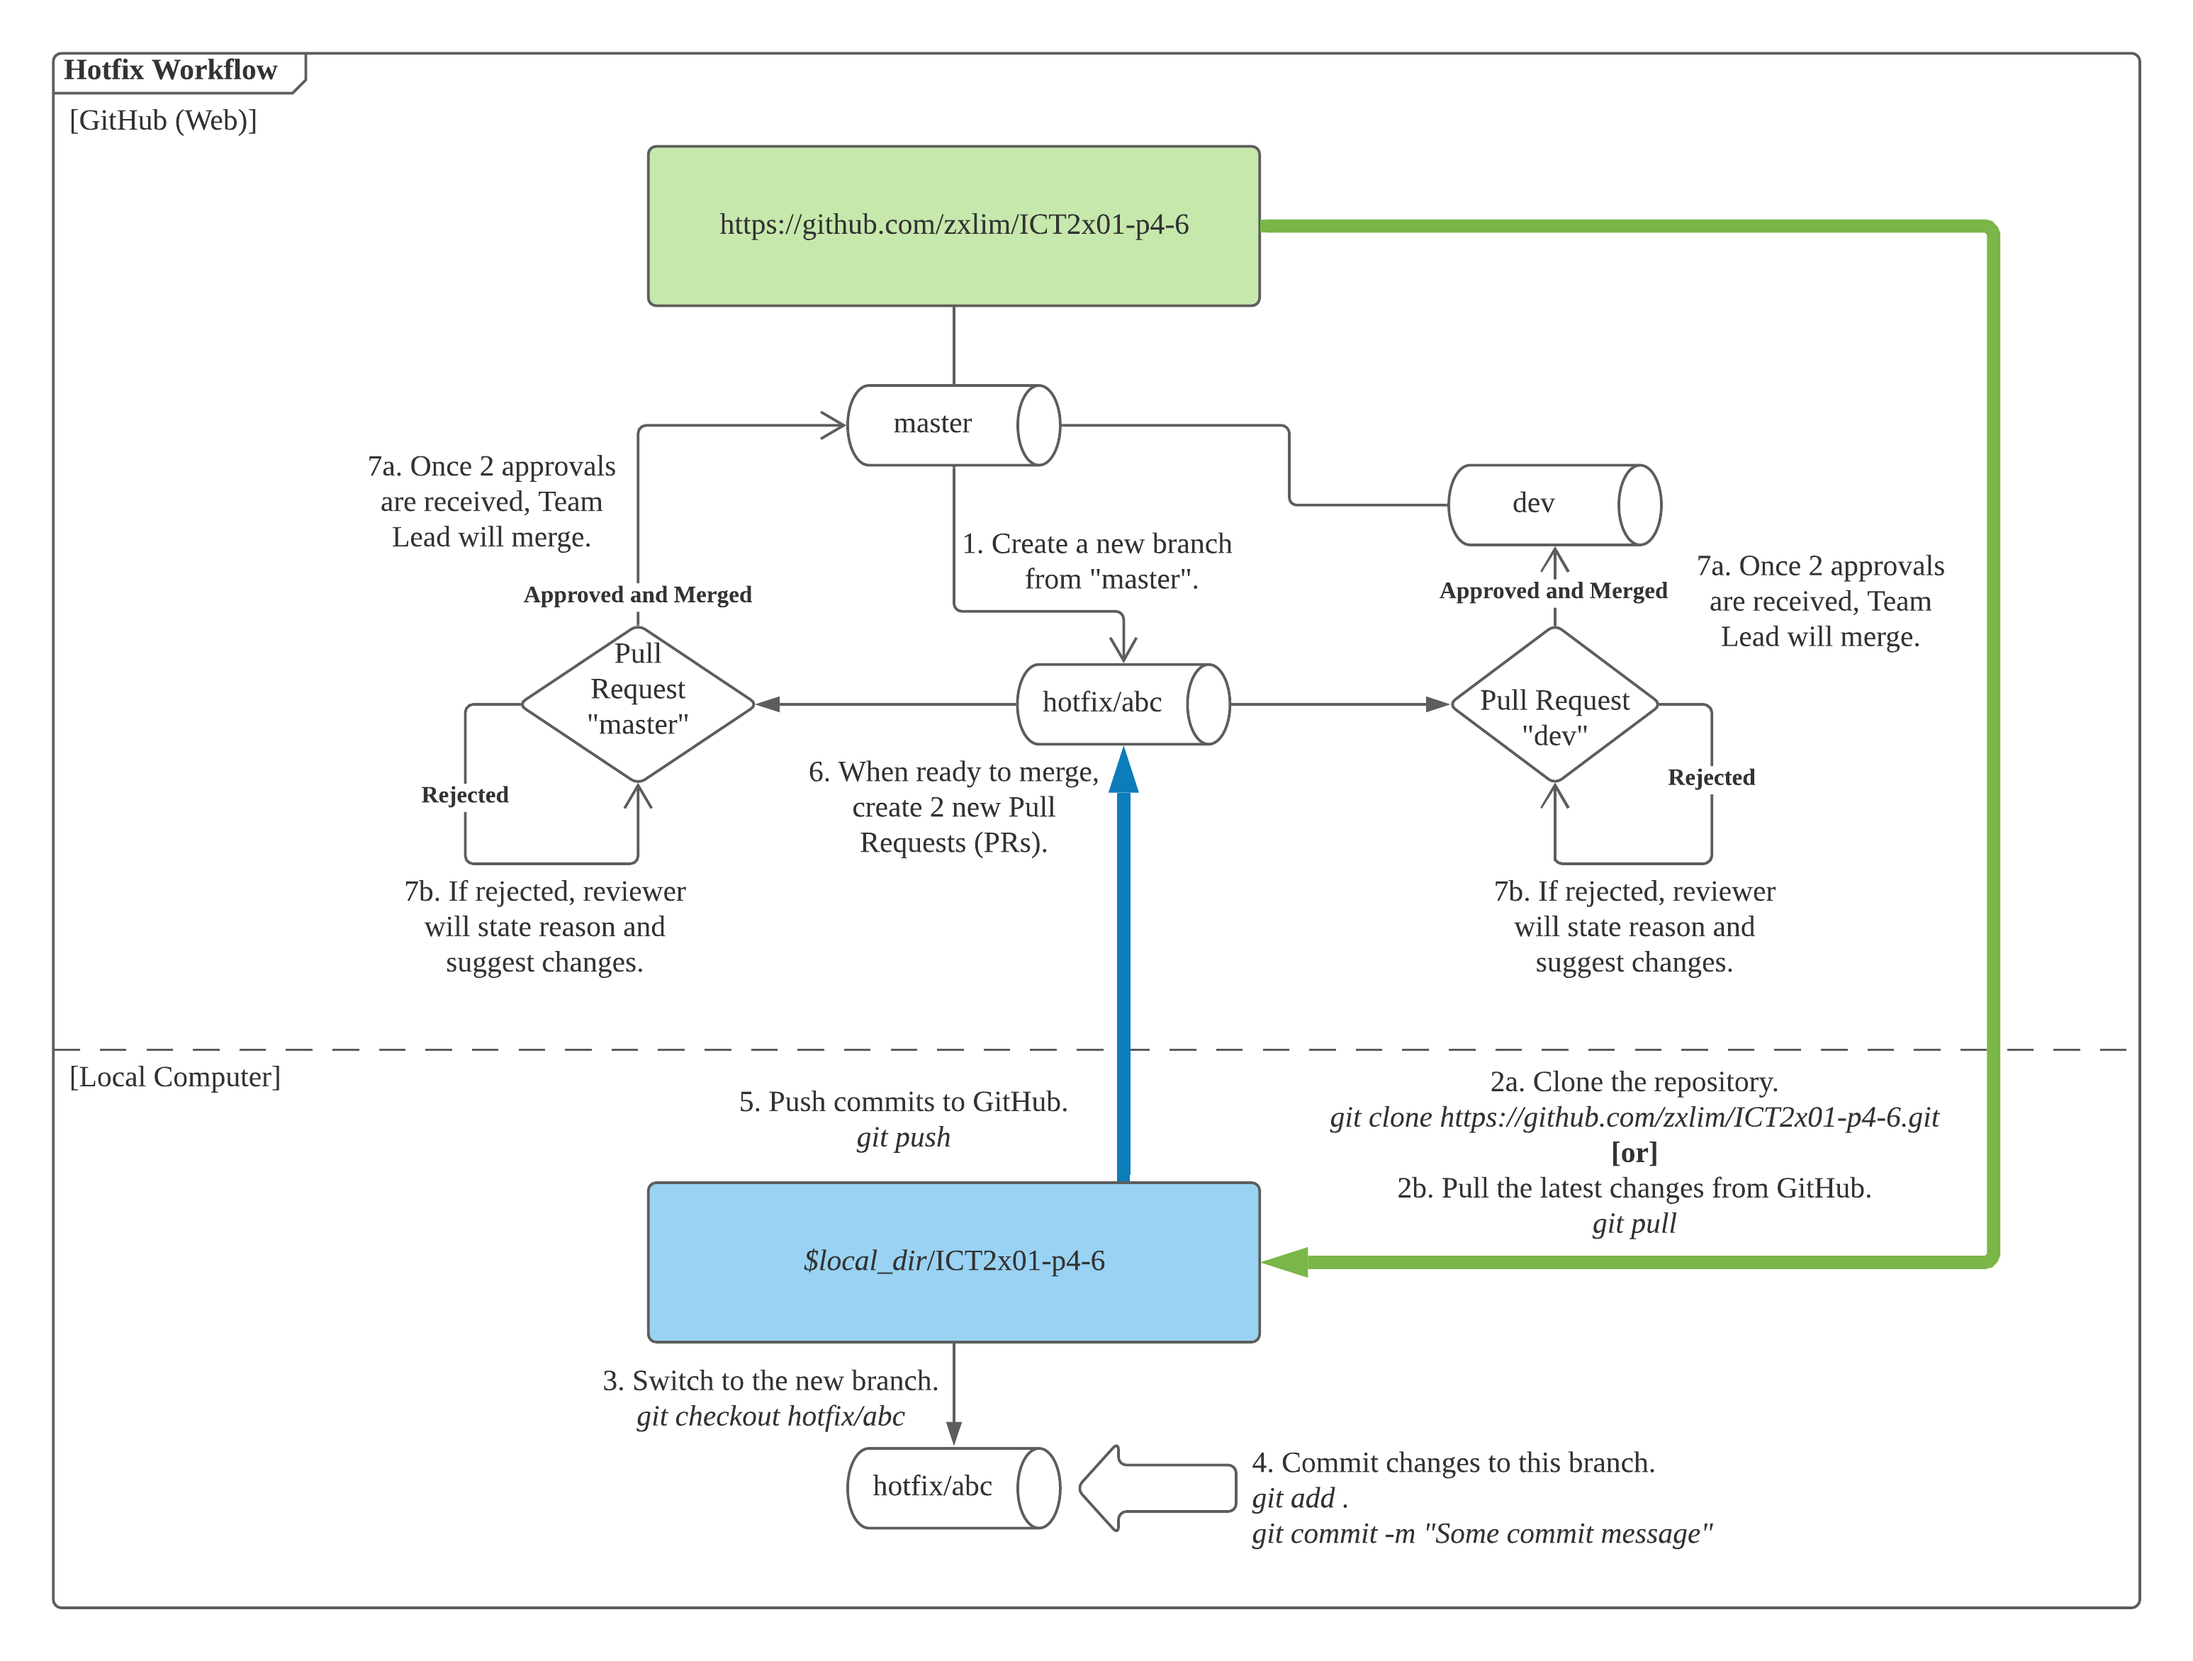
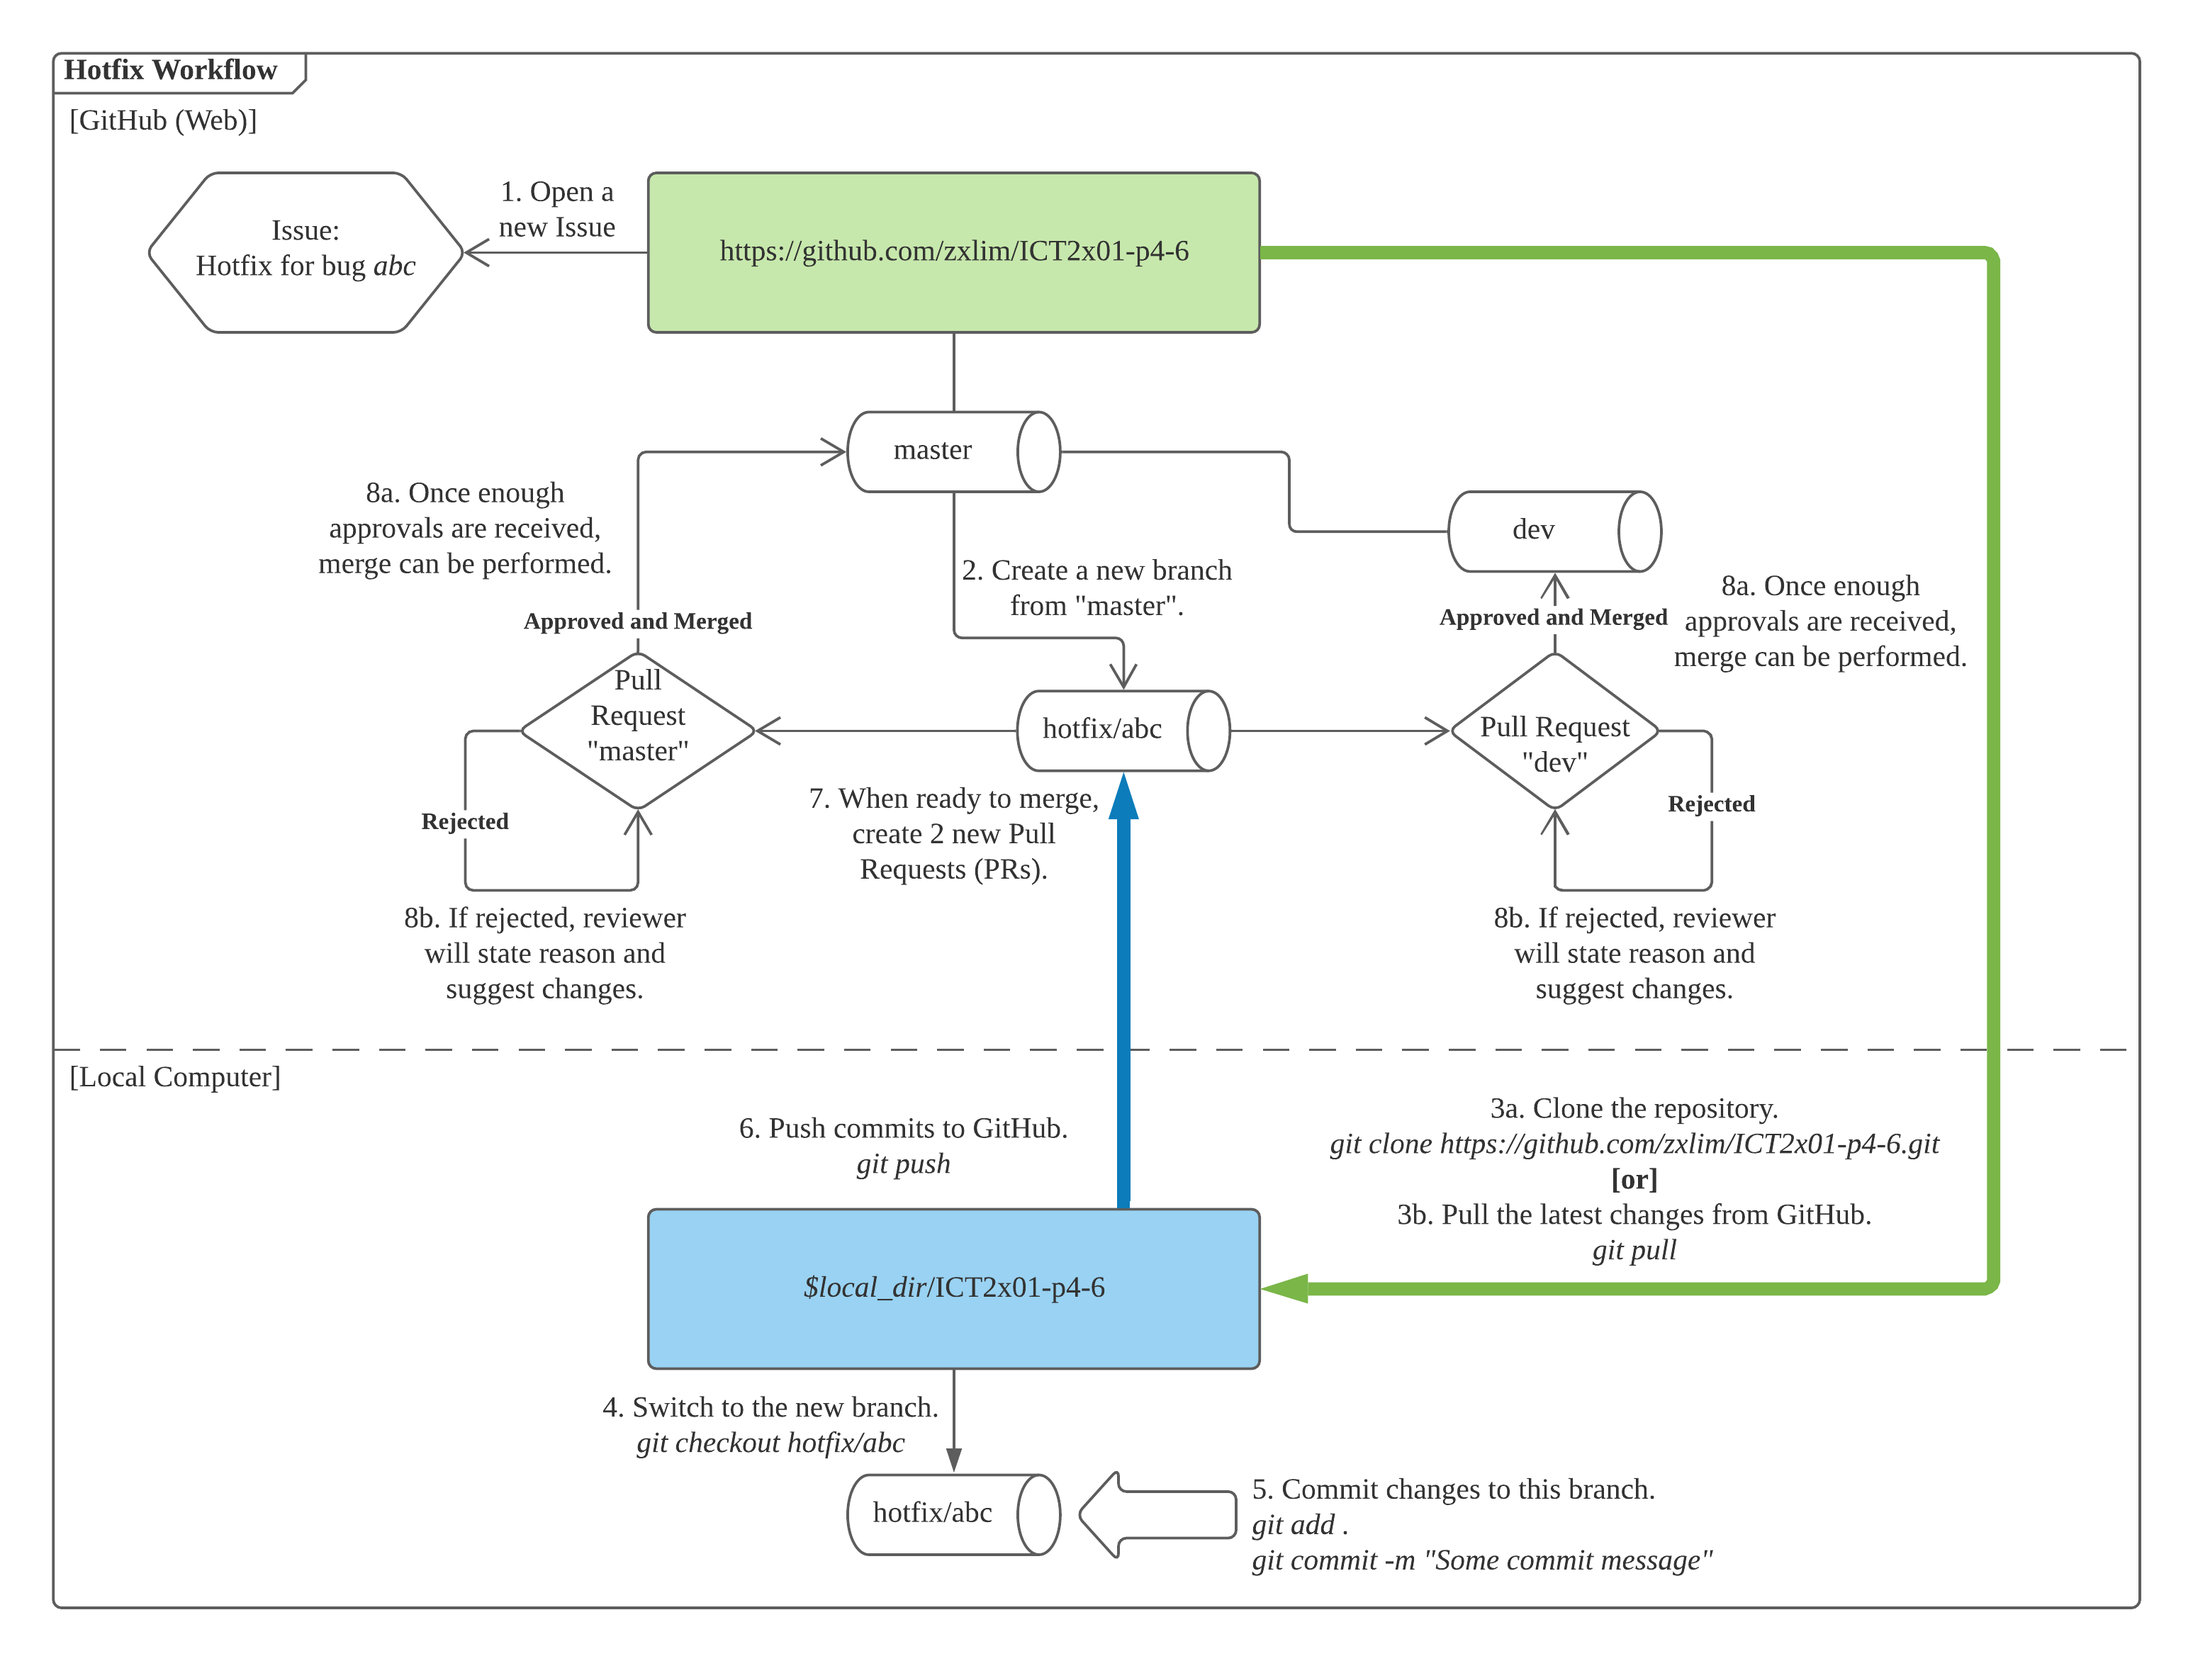
Updated documentation #80

diff --git a/README.md b/README.md
@@ -18,17 +18,18 @@ BOTster is a gamified feedback system used to engage primary school students on 
 
 ## Repository Structure
     ICT2x01-p4-6
+    ├── config              # Directory containing PHP configuration files used for running BOTster.
     ├── docs                # Directory containing resources for project documentation.
-    ├── src                 # Directory containing project soruce code.
+    ├── src                 # Directory containing project source code.
     └── README.md           # This README file. Contains the key project documentation.
 
 ## Deployment Instructions
 This section will cover the deployment instructions for this application.
 
 ### Dependencies
-The following softwares are required to be present on the machine running this application:
+The following software are required to be installed on the machine running this application:
 - PHP 7.4
-- SQLite
+- SQLite3
 
 On macOS Catalina and later, PHP is already preinstalled with SQLite support. For Debian-based GNU/Linux systems, the dependencies can be installed using the following commands:
 ```bash
@@ -40,7 +41,7 @@ On Windows, PHP 7.4 must be installed using XAMPP with default settings. [Click 
 The machine running this application shall also be connected to a network that has wireless connection capabilities (WiFi) for the Robotic Car to be able to communicate with the web component of this application.
 
 ### Starting the Application (For macOS/Linux)
-Steps shown here are done using Console Terminal.
+Steps shown here are done using a Terminal.
 
 1. Clone the repository.
 ```bash
@@ -62,21 +63,16 @@ Press Ctrl-C to quit.
 ```
 
 ### Starting the Application (For Windows)
-Steps shown here are done using Windows Command Prompt.
 
-1. Clone the repository.
-```batch
-C:\Users\dev> git clone https://github.com/zxlim/ICT2x01-p4-6.git
+1. Clone the repository using [Git Bash](https://gitforwindows.org/).
+```bash
+dev@botster MINGW64 ~ git clone https://github.com/zxlim/ICT2x01-p4-6.git
 ```
 
-2. Set your current working directory to the repository on your local file system.
-```batch
-C:\Users\dev> cd ICT2x01-p4-6
-```
+2. Open the repository folder using File Explorer by double-clicking it in the respective directory.
 
-3. Run `start.bat` to start BOTster.
+3. Double-click on `start.bat` to start BOTster. A Command Prompt window will open with the following output:
 ```batch
-C:\Users\dev\ICT2x01-p4-6> .\start.bat
 [*] Press Ctrl+C to stop BOTster Web.
 [*] Document root is: C:\Users\dev\ICT2x01-p4-6\src
 [Fri Nov 19 12:58:19 2021] PHP 7.4.25 Development Server (http://127.0.0.1:5000) started
@@ -116,7 +112,11 @@ Branch protection is enforced on the following branches:
 <br /><br />
 **1. Open a new Issue on GitHub**
 <br />
-Describe the feature that is being worked on. Assign it to the relevant person and label the Issue accordingly (Is this a bug, documentation or enhancement related?).
+- Describe the feature that is being worked on.
+- Assign it to the relevant person(s).
+- Label the Issue accordingly (Is this a bugfix, documentation or enhancement related?).
+- Add the Issue to the `ICT2101/2201 Team Project` Project Board and set the appropriate column depending on the Issue status.
+- Add the Issue to the `Milestone 3 (Project Development)` Milestone.
 
 **2. Branch off from `dev` branch on GitHub**
 <br />
@@ -139,7 +139,7 @@ Once all the necessary commits are pushed, open a new PR (`feature/` or `bugfix/
 Once approval requirements have been met, use the `Merge Commit` feature on the respective PR page to merge the approved changes into the `dev` branch. Merging can be done by the final approver. **Only perform merging using the GitHub web interface!** Once merged, **do not delete** the feature branch.
 
 ### Merging into `master` branch
-Only production-ready code (Meant for release) and other critical resources shall be merged into `master` from `dev`. Only the Team Lead is allowed to create a PR and complete the merge as these processes involes the `master` branch.
+Only production-ready code (Meant for release) and other critical resources shall be merged into `master` from `dev`. Only the Team Lead is allowed to create such PRs and complete the merge as these processes involes the `master` branch.
 <br /><br />
 **1. Create a Pull Request on GitHub**
 <br />
@@ -160,7 +160,11 @@ Hotfixes are code that will be deployed to both `dev` and `master` branches to f
 <br /><br />
 **1. Open a new Issue on GitHub**
 <br />
-Describe the hotfix that is being worked on. Assign it to the relevant person and label the Issue as a `hotfix`.
+- Describe the feature that is being worked on.
+- Assign it to the relevant person(s).
+- Label the Issue with the `hotfix` label.
+- Add the Issue to the `ICT2101/2201 Team Project` Project Board and set the appropriate column depending on Issue status.
+- Add the Issue to the `Milestone 3 (Project Development)` Milestone.
 
 **2. Branch off from `master` branch on GitHub**
 <br />
